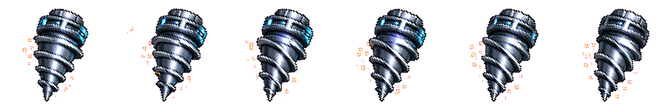
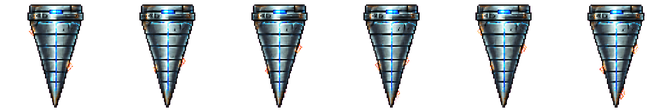
Polish mining drill feedback

diff --git a/web/shell.html b/web/shell.html
@@ -888,6 +888,25 @@
       margin-top: 4px;
     }
 
+    .surface-action-card {
+      display: flex;
+      flex-direction: column;
+      min-height: 172px;
+    }
+
+    .surface-action-card p {
+      min-height: 42px;
+    }
+
+    .surface-action-card .stat-grid {
+      min-height: 28px;
+      align-content: start;
+    }
+
+    .surface-action-card .card-footer {
+      margin-top: auto;
+    }
+
     .ops-card.repair {
       border-color: rgba(184, 196, 216, 0.26);
     }

diff --git a/src/render/WebGLRenderer.cpp b/src/render/WebGLRenderer.cpp
@@ -678,7 +678,7 @@ void WebGLRenderer::drawMining(const RenderSnapshot& snapshot)
         drone.x + drillDirection.x * droneSize * 0.40F,
         drone.y + drillDirection.y * droneSize * 0.40F
     };
-    const Color heatColor = mix({0.35F, 0.86F, 1.0F, 1.0F}, {1.0F, 0.45F, 0.20F, 1.0F}, static_cast<float>(snapshot.miningHeat));
+    Vec2 particleAnchor = target;
 
     if (textureReady(DrillBitAsset) && snapshot.miningTargetDrillable) {
         const float dx = target.x - drillOrigin.x;
@@ -690,33 +690,10 @@ void WebGLRenderer::drawMining(const RenderSnapshot& snapshot)
             drillOrigin.x + drillDirection.x * drillH * 0.5F,
             drillOrigin.y + drillDirection.y * drillH * 0.5F
         };
-        const Vec2 drillRight {-drillDirection.y, drillDirection.x};
-        const Vec2 bitRoot {
-            drillOrigin.x + drillDirection.x * cellSize * 0.12F,
-            drillOrigin.y + drillDirection.y * cellSize * 0.12F
-        };
-        const Vec2 bitTip {
+        particleAnchor = {
             drillOrigin.x + drillDirection.x * drillH,
             drillOrigin.y + drillDirection.y * drillH
         };
-        const float baseHalf = drillW * 0.44F;
-        drawTriangle(
-            bitTip.x + drillDirection.x * cellSize * 0.10F,
-            bitTip.y + drillDirection.y * cellSize * 0.10F,
-            bitRoot.x + drillRight.x * baseHalf,
-            bitRoot.y + drillRight.y * baseHalf,
-            bitRoot.x - drillRight.x * baseHalf,
-            bitRoot.y - drillRight.y * baseHalf,
-            {0.05F, 0.07F, 0.08F, 0.82F});
-        drawTriangle(
-            bitTip.x,
-            bitTip.y,
-            bitRoot.x + drillRight.x * baseHalf * 0.78F,
-            bitRoot.y + drillRight.y * baseHalf * 0.78F,
-            bitRoot.x - drillRight.x * baseHalf * 0.78F,
-            bitRoot.y - drillRight.y * baseHalf * 0.78F,
-            {heatColor.r, heatColor.g, heatColor.b, snapshot.miningDrilling ? 0.38F : 0.16F});
-        drawLine(bitRoot.x, bitRoot.y, bitTip.x, bitTip.y, {heatColor.r, heatColor.g, heatColor.b, snapshot.miningDrilling ? 0.36F : 0.12F}, snapshot.miningDrilling ? 1.4F : 0.8F);
         const int drillFrame = snapshot.miningDrilling ? static_cast<int>(snapshot.animationTime * 18.0) % 6 : 0;
         drawSpriteRotated(
             bitCenter.x,
@@ -729,12 +706,6 @@ void WebGLRenderer::drawMining(const RenderSnapshot& snapshot)
             DrillBitAsset,
             drillFrame,
             6);
-    } else {
-        const float alpha = snapshot.miningInputDrilling ? 0.36F : 0.18F;
-        drawLine(drillOrigin.x, drillOrigin.y, target.x, target.y, {heatColor.r, heatColor.g, heatColor.b, alpha}, snapshot.miningInputDrilling ? 1.5F : 0.9F);
-        if (snapshot.miningInputDrilling) {
-            drawCircle(target.x, target.y, cellSize * 0.28F, {1.0F, 0.84F, 0.30F, 0.18F}, 18);
-        }
     }
 
     if (textureReady(MiningDroneAsset)) {
@@ -752,8 +723,8 @@ void WebGLRenderer::drawMining(const RenderSnapshot& snapshot)
             const float t = static_cast<float>(std::fmod(snapshot.animationTime * 9.0 + static_cast<double>(i) * 0.37, 1.0));
             const float angle = static_cast<float>(i) * 1.73F + t * kPi * 2.0F;
             const float radius = (0.2F + t * (0.9F + static_cast<float>(snapshot.miningContactIntensity) * 0.7F)) * std::min(cellW, cellH);
-            const float px = target.x + std::cos(angle) * radius;
-            const float py = target.y + std::sin(angle) * radius;
+            const float px = particleAnchor.x + std::cos(angle) * radius;
+            const float py = particleAnchor.y + std::sin(angle) * radius;
             const Color spark = mix({1.0F, 0.82F, 0.28F, 0.95F}, {0.72F, 0.48F, 0.34F, 0.15F}, t);
             appendRect(particleVertices, px, py, cellW * 0.22F, cellH * 0.22F, spark);
         }

diff --git a/src/game/RocketGameApp.cpp b/src/game/RocketGameApp.cpp
@@ -767,9 +767,13 @@ RenderSnapshot RocketGameApp::snapshot() const
         result.miningScannerPulse = mining.scannerPulseSeconds;
         result.miningRecoilX = mining.recoilX;
         result.miningRecoilY = mining.recoilY;
-        result.miningBounce = mining.contactBounce;
         const MiningCell* target = miningCellAt(mining.terrain, mining.targetCellX, mining.targetCellY);
         const bool targetDrillable = target != nullptr && miningMaterialSolid(target->material) && target->material != MiningCellMaterial::Bedrock;
+        const double pressureX = -mining.recoilX;
+        const double pressureY = -mining.recoilY;
+        const double movePressure = mining.moveX * pressureX + mining.moveY * pressureY;
+        const bool activelyPressingContact = (mining.drilling && targetDrillable) || movePressure > 0.20;
+        result.miningBounce = activelyPressingContact ? mining.contactBounce : 0.0;
         result.miningInputDrilling = mining.drilling;
         result.miningTargetDrillable = targetDrillable;
         result.miningDrilling = mining.drilling && targetDrillable;

diff --git a/src/game/GamePanel.cpp b/src/game/GamePanel.cpp
@@ -190,7 +190,7 @@ std::string researchProjectCard(const ResearchProjectCardPresentation& project)
 std::string surfaceActionCard(const SurfaceActionPreviewPresentation& action)
 {
     std::ostringstream out;
-    out << "<article class=\"ops-card\">";
+    out << "<article class=\"ops-card surface-action-card\">";
     out << "<div class=\"card-topline\"><span>" << htmlEscape(action.cost) << "</span><span>"
         << htmlEscape(action.risk) << " " << htmlEscape(action.riskLabel) << "</span></div>";
     out << "<h3>" << htmlEscape(action.title) << "</h3>";